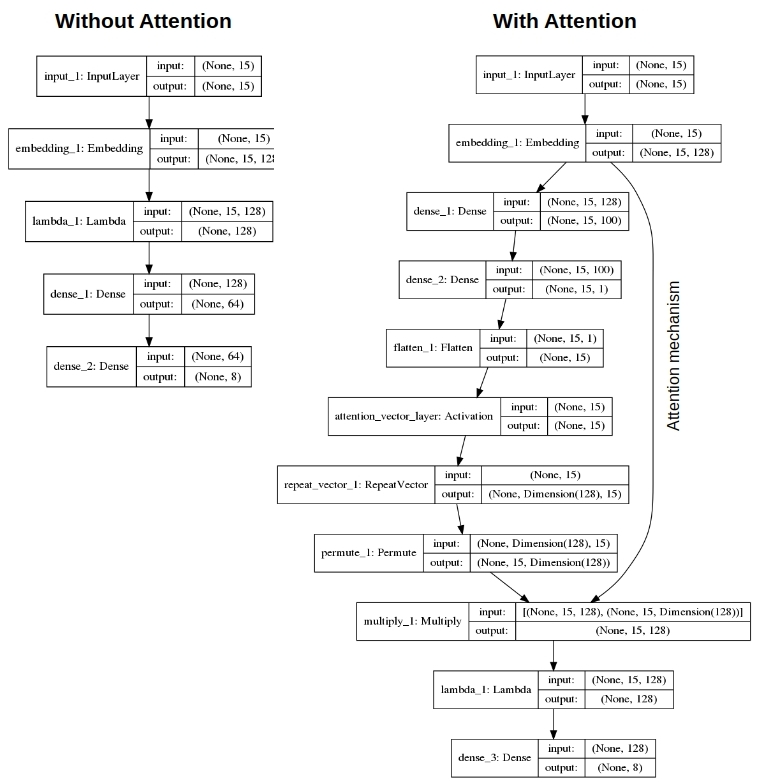
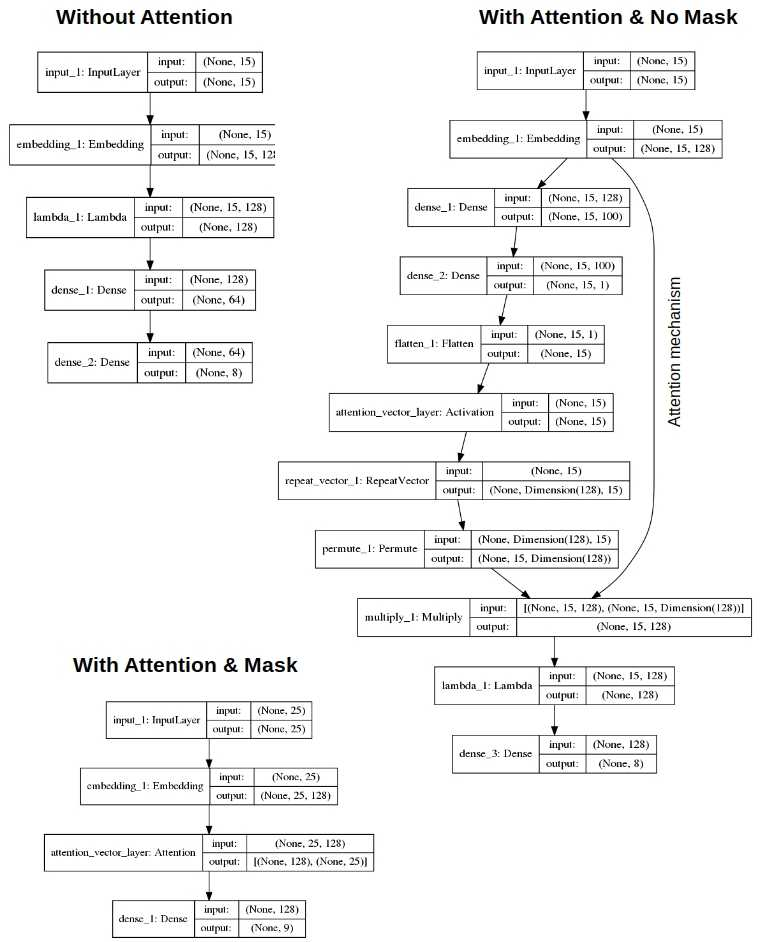
Fixes to images

diff --git a/README.md b/README.md
@@ -4,13 +4,11 @@ This is the source code to go along with the blog article
 
 [Attention as Adaptive Tf-Idf for Deep Learning]()
 
-This repository has an implementation of Bahdanau Attention in Keras.
-
-It is applied in the context of a multi-class, multi-label classification of a set of synthetic documents. The purpose is to illustrate the effectiveness of attention and how it dynamically identifies the influential words responsible for the particular classification objective in consideration.
+Bahdanau Attention is applied in the context of a multi-class, multi-label classification of a set of synthetic documents. The purpose is to illustrate the effectiveness of attention and how it dynamically identifies the influential words responsible for the particular classification objective in consideration.
 
 ![Implementing Attention in Keras](./images/bahdanau_attention.jpg "Bahdanau Attenton in Keras")
 
-*Figure 1. A Keras implementation of Bahdanau attention in Equations 1 & 2  Takes an array of word-vectors representing a sentence and yields an attention weighted sentence vector in Rquation 2 that can be classified by whatever objective.*
+*Figure 1. A Keras implementation of attention with functional API when masking is not used. Takes an array of word-vectors representing a sentence and yields an attention weighted sentence vector that can be used for whatever classification objective. All sentences have the same number (includig the dummy words) of words without masking.*
 
 ##	Summary
 
@@ -18,7 +16,7 @@ Attention is like tf-idf for deep learning. Both attention and tf-idf boost the 
 
 ![Data Flow in Keras](./images/attention_keras.jpg "Data flow in Keras")
 
-Figure 2. Data flow with and without attention. Without attention means all words are given the weight in forming the sentence vector.
+*Figure 2. Data flow with & without attention, and with & without masking.*
 
 ## Dependencies
 
@@ -53,15 +51,15 @@ Pick a sentence from the test array to see how we performed for that sentence
 
 # Sample Results
 
-Attention weights obtained for a sentence
+##	Attention weights obtained for a sentence
 
 ![Attention Weights](./images/attention_weights.jpg "Attenton Weights")
 
 *Figure 3. Attention mechanism identifies the right words controlling the classification objective and obtains larger weights for those words. Thus the weights for the same words are different when the classification objective changes. This is unlike tf-idf  weighting that is independent of the NLP task.*
 
-Predictions for the same sentence above
+##	Predictions for the same sentence
 
 ![Predictions](./images/predictions.jpg "Predictions")
 
-*Figure 4. The larger weights for the words controlling classification allow for exact classification when attention is in place. Extra & missing classes without attention.*
+*Figure 4. The larger weights for the words controlling classification allow for exact classification when attention is in place.. Masking does not make any difference for this simple problem. But without attention the predictions have extra & missing classes.*
 
